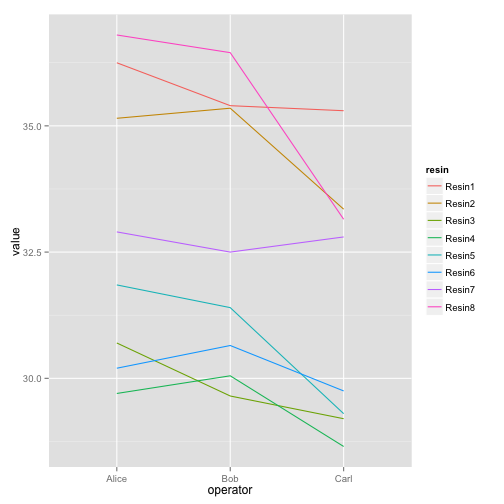
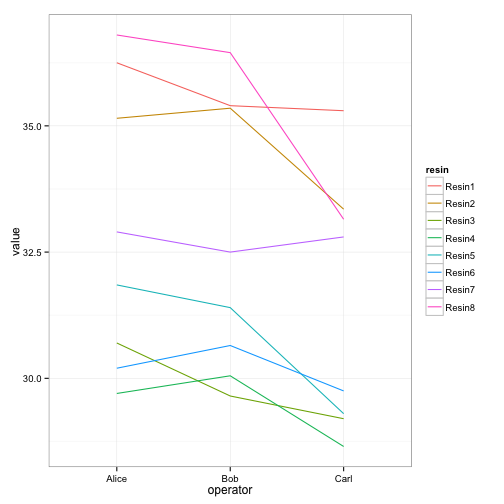
Minor edits

diff --git a/M1-start.html b/M1-start.html
@@ -428,7 +428,7 @@ long &lt;-<span class="st"> </span><span class="kw">melt</span>(mat)
 6 Resin6    Alice 30.20
 </code></pre>
 <p>This long form is often the best form for exploration and statistical testing of data.</p>
-<p>We already saw some of R’s built in plotting facilities with the function <code>plot</code>. A more recent and much more powerful plotting library is <code>ggplot2</code>. The syntax is a little strange, but there are plenty of examples in the <a href="http://docs.ggplot2.org/current/">online documentation</a>.</p>
+<p>We already saw some of R’s built in plotting facilities with the function <code>plot</code>. A more recent and much more powerful plotting library is <code>ggplot2</code>. This implements ideas from a book called “The Grammar of Graphics”. The syntax is a little strange, but there are plenty of examples in the <a href="http://docs.ggplot2.org/current/">online documentation</a>.</p>
 <p>If <code>ggplot2</code> isn’t already installed, we need to install it.</p>
 <pre class="sourceCode r"><code class="sourceCode r"><span class="kw">install.packages</span>(<span class="st">&quot;ggplot2&quot;</span>)</code></pre>
 <pre class="sourceCode r"><code class="sourceCode r"><span class="kw">library</span>(ggplot2)</code></pre>
@@ -440,9 +440,11 @@ long &lt;-<span class="st"> </span><span class="kw">melt</span>(mat)
 <p>The call to <code>ggplot</code> sets up the basics of how we are going to represent the various columns of the data frame. We then literally add layers of graphics to this.</p>
 <pre class="sourceCode r"><code class="sourceCode r"><span class="kw">ggplot</span>(long, <span class="kw">aes</span>(<span class="dt">x=</span>operator, <span class="dt">y=</span>value)) +<span class="st"> </span><span class="kw">geom_boxplot</span>() +<span class="st"> </span><span class="kw">geom_point</span>()</code></pre>
 <p><img src="fig/M1-start-unnamed-chunk-35-1.png" title="plot of chunk unnamed-chunk-35" alt="plot of chunk unnamed-chunk-35" style="display: block; margin: auto;" /></p>
-<pre class="sourceCode r"><code class="sourceCode r"><span class="kw">ggplot</span>(long, <span class="kw">aes</span>(<span class="dt">x=</span>operator, <span class="dt">y=</span>value, <span class="dt">group=</span>resin, <span class="dt">color=</span>resin)) +<span class="st"> </span><span class="kw">geom_line</span>()</code></pre>
+<pre class="sourceCode r"><code class="sourceCode r"><span class="kw">ggplot</span>(long, <span class="kw">aes</span>(<span class="dt">x=</span>operator, <span class="dt">y=</span>value, <span class="dt">group=</span>resin, <span class="dt">color=</span>resin)) +
+<span class="st">    </span><span class="kw">geom_line</span>() +<span class="st"> </span><span class="kw">theme_bw</span>()</code></pre>
 <p><img src="fig/M1-start-unnamed-chunk-35-2.png" title="plot of chunk unnamed-chunk-35" alt="plot of chunk unnamed-chunk-35" style="display: block; margin: auto;" /></p>
-<pre class="sourceCode r"><code class="sourceCode r"><span class="kw">ggplot</span>(long, <span class="kw">aes</span>(<span class="dt">x=</span>operator, <span class="dt">y=</span>value)) +<span class="st"> </span><span class="kw">facet_wrap</span>(~<span class="st"> </span>resin) +<span class="st"> </span><span class="kw">geom_point</span>()</code></pre>
+<pre class="sourceCode r"><code class="sourceCode r"><span class="kw">ggplot</span>(long, <span class="kw">aes</span>(<span class="dt">x=</span>operator, <span class="dt">y=</span>value)) +
+<span class="st">    </span><span class="kw">facet_wrap</span>(~<span class="st"> </span>resin) +<span class="st"> </span><span class="kw">geom_point</span>() +<span class="st"> </span><span class="kw">theme_bw</span>()</code></pre>
 <p><img src="fig/M1-start-unnamed-chunk-35-3.png" title="plot of chunk unnamed-chunk-35" alt="plot of chunk unnamed-chunk-35" style="display: block; margin: auto;" /></p>
 <p>ggplots can be save as we talked about above, but with one small twist to keep in mind. The act of plotting a ggplot is actually triggered when it is printed. In an interactive session we are automatically printing each value we calculate, but if you are writing a function you might need to explcitly <code>print( )</code> the plot.</p>
 <pre class="sourceCode r"><code class="sourceCode r"><span class="co"># Plot created but not shown.</span>

diff --git a/01-supp-addressing-data.html b/01-supp-addressing-data.html
@@ -330,7 +330,7 @@ The following object is masked _by_ &#39;.GlobalEnv&#39;:
 
     mpg
 </code></pre>
-<pre class="sourceCode r"><code class="sourceCode r"><span class="kw">ggplot</span>(combined_all, <span class="kw">aes</span>(<span class="dt">x=</span>hp,<span class="dt">y=</span>mpg,<span class="dt">color=</span>cyl)) +<span class="st"> </span><span class="kw">geom_point</span>()</code></pre>
+<pre class="sourceCode r"><code class="sourceCode r"><span class="kw">ggplot</span>(combined_all, <span class="kw">aes</span>(<span class="dt">x=</span>hp,<span class="dt">y=</span>mpg,<span class="dt">color=</span>cyl)) +<span class="st"> </span><span class="kw">geom_point</span>() +<span class="st"> </span><span class="kw">theme_bw</span>()</code></pre>
 <pre class="output"><code>Warning: Removed 2 rows containing missing values (geom_point).
 </code></pre>
 <p><img src="fig/unnamed-chunk-8-1.png" title="plot of chunk unnamed-chunk-8" alt="plot of chunk unnamed-chunk-8" style="display: block; margin: auto;" /></p>
@@ -385,7 +385,7 @@ The following object is masked _by_ &#39;.GlobalEnv&#39;:
 <h2><span class="glyphicon glyphicon-pencil"></span>Challenge</h2>
 </div>
 <div class="panel-body">
-<p>Find the top 5 best cars in terms of miles-per-gallon. (Look at the documentation for order to see how to sort in descending order, <code>?order</code>)</p>
+<p>Show the top 5 best cars in terms of miles-per-gallon. (Look at the documentation for order to see how to sort in descending order, <code>?order</code>)</p>
 <p>What does order do with missing values (NA)?</p>
 </div>
 </section>

diff --git a/M1-start.md b/M1-start.md
@@ -911,7 +911,7 @@ head(long)
 
 This long form is often the best form for exploration and statistical testing of data.
 
-We already saw some of R's built in plotting facilities with the function `plot`. A more recent and much more powerful plotting library is `ggplot2`. The syntax is a little strange, but there are plenty of examples in the [online documentation](http://docs.ggplot2.org/current/).
+We already saw some of R's built in plotting facilities with the function `plot`. A more recent and much more powerful plotting library is `ggplot2`. This implements ideas from a book called "The Grammar of Graphics". The syntax is a little strange, but there are plenty of examples in the [online documentation](http://docs.ggplot2.org/current/).
 
 If `ggplot2` isn't already installed, we need to install it.
 
@@ -951,13 +951,15 @@ ggplot(long, aes(x=operator, y=value)) + geom_boxplot() + geom_point()
 <img src="fig/M1-start-unnamed-chunk-35-1.png" title="plot of chunk unnamed-chunk-35" alt="plot of chunk unnamed-chunk-35" style="display: block; margin: auto;" />
 
 ~~~{.r}
-ggplot(long, aes(x=operator, y=value, group=resin, color=resin)) + geom_line()
+ggplot(long, aes(x=operator, y=value, group=resin, color=resin)) +
+    geom_line() + theme_bw()
 ~~~
 
 <img src="fig/M1-start-unnamed-chunk-35-2.png" title="plot of chunk unnamed-chunk-35" alt="plot of chunk unnamed-chunk-35" style="display: block; margin: auto;" />
 
 ~~~{.r}
-ggplot(long, aes(x=operator, y=value)) + facet_wrap(~ resin) + geom_point()
+ggplot(long, aes(x=operator, y=value)) +
+    facet_wrap(~ resin) + geom_point() + theme_bw()
 ~~~
 
 <img src="fig/M1-start-unnamed-chunk-35-3.png" title="plot of chunk unnamed-chunk-35" alt="plot of chunk unnamed-chunk-35" style="display: block; margin: auto;" />

diff --git a/01-supp-addressing-data.md b/01-supp-addressing-data.md
@@ -548,7 +548,7 @@ The following object is masked _by_ '.GlobalEnv':
 
 
 ~~~{.r}
-ggplot(combined_all, aes(x=hp,y=mpg,color=cyl)) + geom_point()
+ggplot(combined_all, aes(x=hp,y=mpg,color=cyl)) + geom_point() + theme_bw()
 ~~~
 
 
@@ -639,7 +639,7 @@ combined_all[ order(combined_all$cyl), ]
 
 > ## Challenge {.challenge}
 >
-> Find the top 5 best cars in terms of miles-per-gallon.
+> Show the top 5 best cars in terms of miles-per-gallon.
 > (Look at the documentation for order to see how to sort in descending order, `?order`)
 >
 > What does order do with missing values (NA)?
